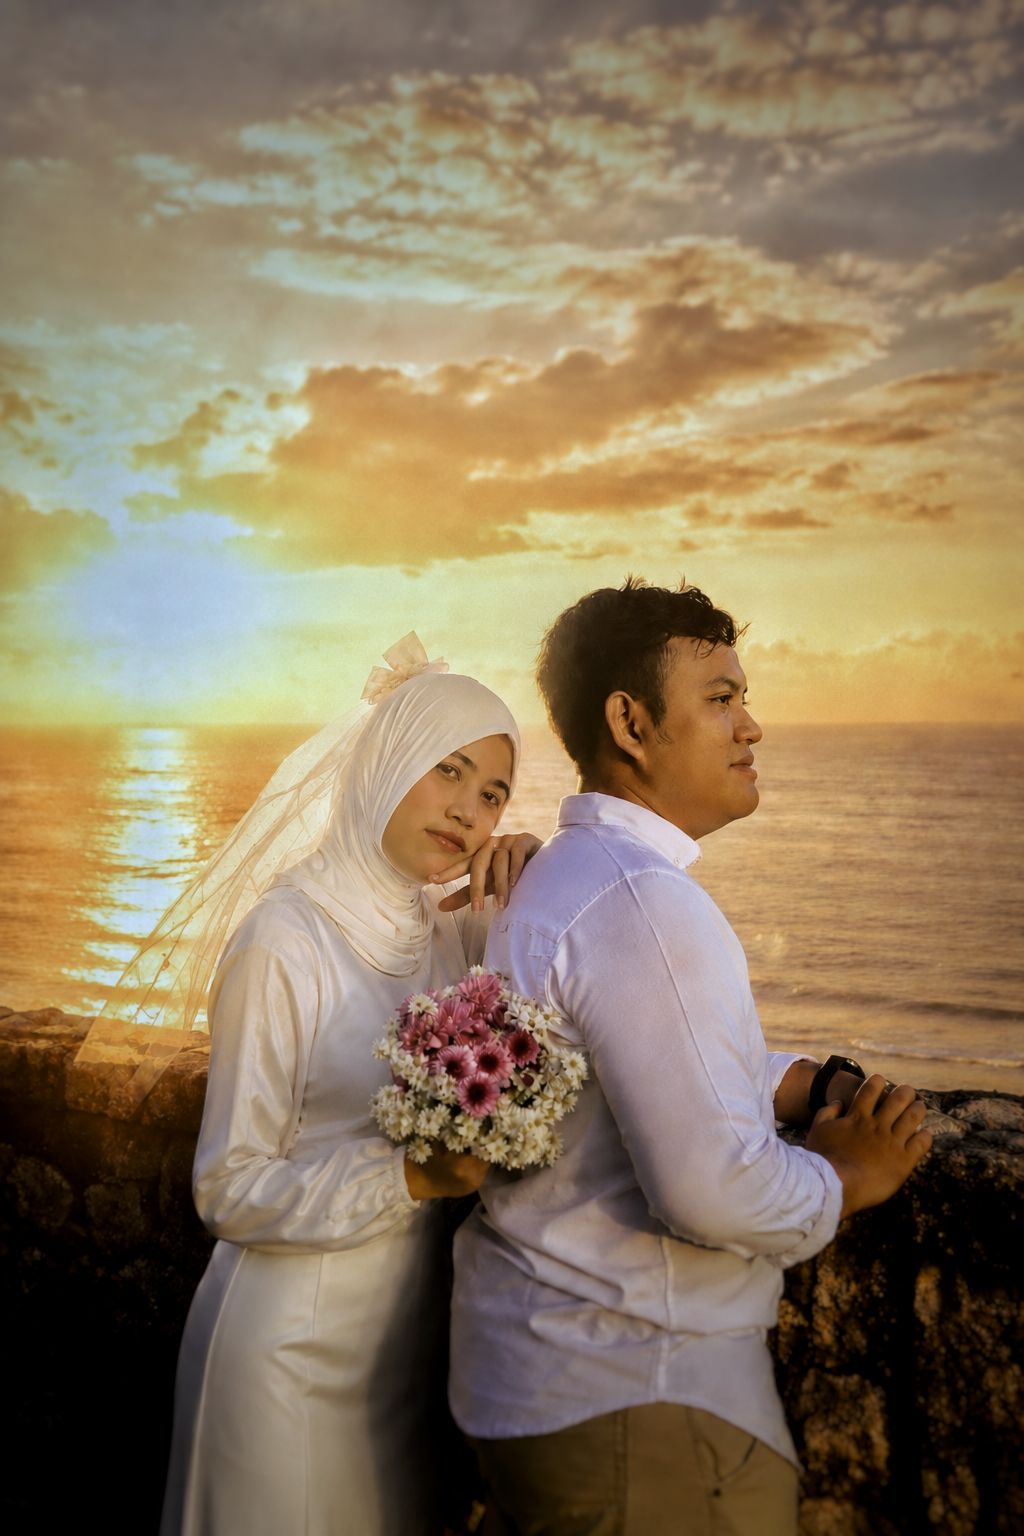
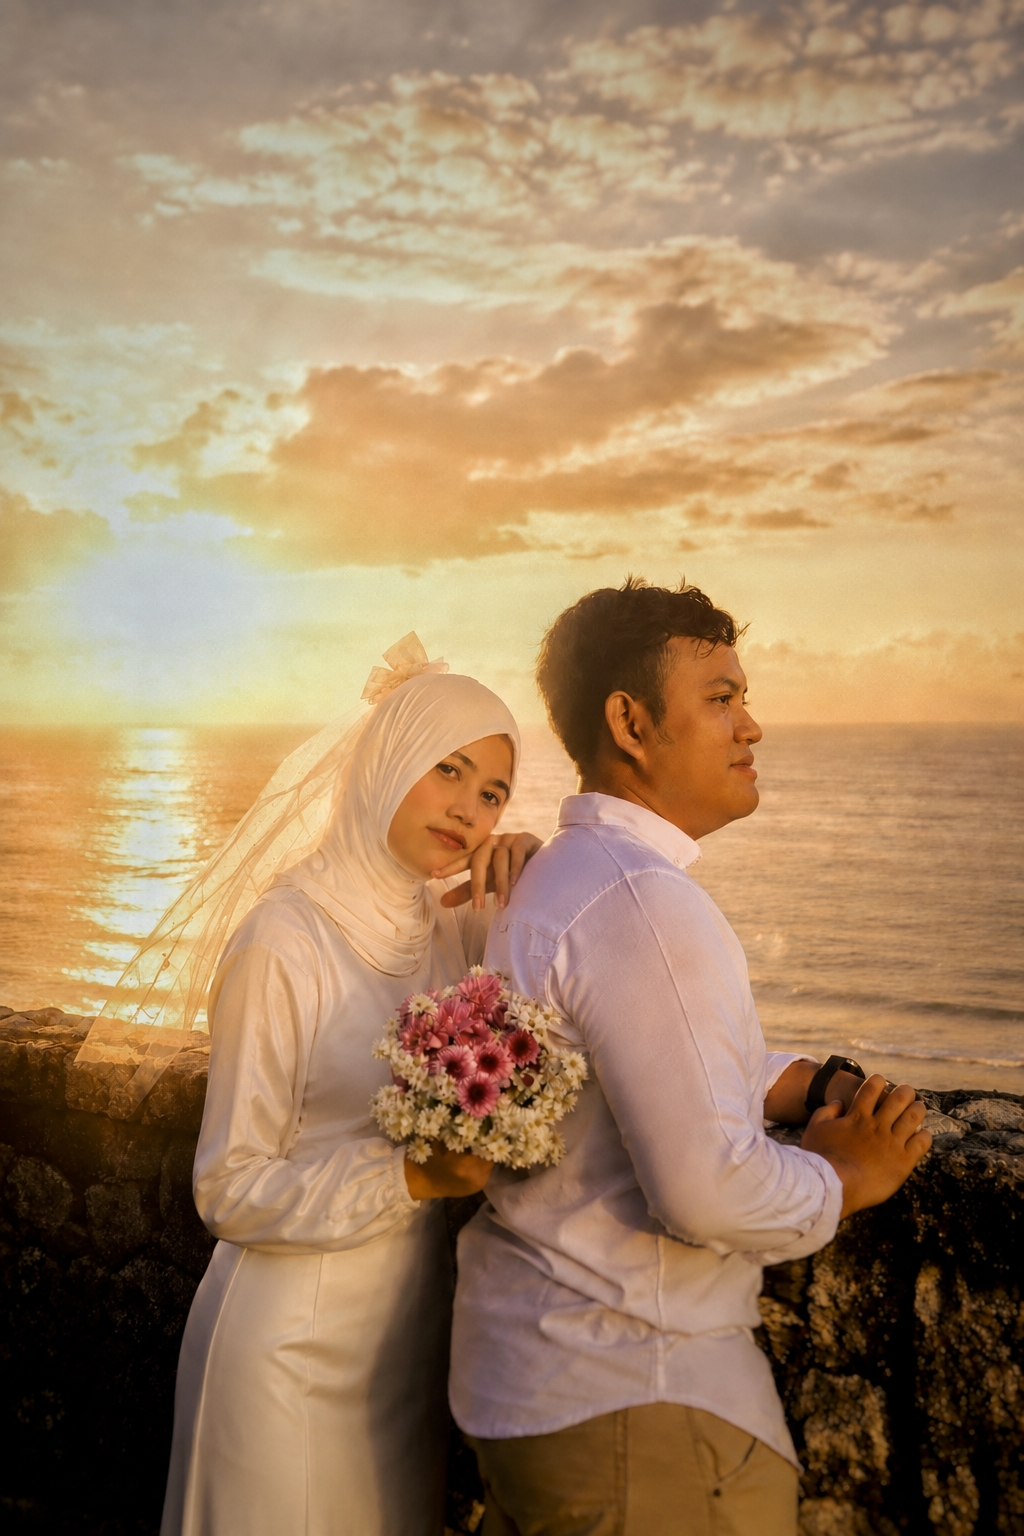
fiks3

diff --git a/src/components/DayProgram.jsx b/src/components/DayProgram.jsx
@@ -1,9 +1,11 @@
 
 const items = [
-  { time: '19:45', title: 'Resepsi', desc: "" , icon: 'resepsi'},
-  { time: '19:50', title: 'Makan Malam', desc: "" , icon: 'dinner'},
-  { time: '20:20', title: 'Live Musik', desc: "" , icon: 'livemusik'},
-  { time: '22:00', title: 'Penutup', desc: "" , icon: 'jam1'},
+  { time: '19:45', title: 'Pembukaan', desc: "" , icon: 'resepsi'},
+  { time: '19:50', title: 'Pembacaan Ayat Suci Al-Quran', desc: "" , icon: 'quran'},
+  { time: '19:50', title: 'Sambutan Keluarga', desc: "" , icon: 'family'},
+  { time: '19:50', title: 'Ceramah', desc: "" , icon: 'speaker'},
+  { time: '20:20', title: 'Makan Malam & Hiburan', desc: "" , icon: 'dinner'},
+  { time: '22:00', title: 'Acara Bebas', desc: "" , icon: 'jam1'},
 ]
 
 
@@ -43,7 +45,7 @@ const DayProgram = () => {
           {/* static vertical line */}
           <div className="absolute left-14 top-6 bottom-6 w-px bg-amber-200/30" />
 
-          <div className="space-y-20">
+          <div className="space-y-16">
             {items.map((it) => (
               <motion.div
                 key={it.time}
@@ -69,13 +71,13 @@ const DayProgram = () => {
 
                 <div className="ml-14">
                   <motion.div className="flex items-center space-x-4">
-                    <motion.span
+                    {/* <motion.span
                       className="bg-amber-100 text-olive-900 text-xs font-medium px-3 py-1 rounded-full"
                       variants={{ hidden: { opacity: 0, x: -20 }, visible: (d = 0.04) => ({ opacity: 1, x: 0, transition: { duration: 0.5, ease: 'easeOut', delay: d } }) }}
                       custom={0.04}
                     >
                       {it.time}
-                    </motion.span>
+                    </motion.span> */}
 
                     <motion.h3
                       className="font-serif text-lg"

diff --git a/src/components/Opening.jsx b/src/components/Opening.jsx
@@ -50,10 +50,10 @@ const Opening = ({ onComplete = () => {} }) => {
       <div className={`pointer-events-none fixed inset-0 flex flex-col items-center justify-end pb-13 transition-opacity duration-700 ${fading ? 'opacity-0' : 'opacity-100'}`}>
         {guestName ? (
           <div className={`mt-2 mb-8 text-center transition-opacity duration-500 ${nameFading ? 'opacity-0' : 'opacity-100'}`}>
-            <div className="text-sm mb-3 text-white opacity-80">Kepada :</div>
+            {/* <div className="text-sm mb-3 text-white opacity-80">Kepada :</div>
             <div className="mt-1 text-white text-2xl font-serif font-semibold">{guestName}</div>
             <div className="mt-2 h-0.5 bg-white w-32 mx-auto rounded" />
-            <div className="mt-2 h-0.5 bg-white w-20 mx-auto rounded" />
+            <div className="mt-2 h-0.5 bg-white w-20 mx-auto rounded" /> */}
           </div>
         ) : null}
         {/* small instruction telling guests they can tap anywhere to open maps */}

diff --git a/src/components/Gallery.jsx b/src/components/Gallery.jsx
@@ -7,8 +7,8 @@ const Gallery = () => {
     { src: '/assets/galeri/galeri10.jpg', isLandscape: true },
     { src: '/assets/galeri/galeri2.jpg', isLandscape: false },
     { src: '/assets/galeri/galeri3.jpg', isLandscape: false },
-    // { src: '/assets/galeri/galeri4.jpg', isLandscape: true },
-    // { src: '/assets/galeri/galeri5.jpg', isLandscape: true },
+    { src: '/assets/galeri/galeri12.jpg', isLandscape: true },
+    { src: '/assets/galeri/galeri13.jpg', isLandscape: true },
     { src: '/assets/galeri/galeri7.jpg', isLandscape: false },
     { src: '/assets/galeri/galeri11.jpg', isLandscape: false },
     { src: '/assets/galeri/galeri8.jpg', isLandscape: false }, 
